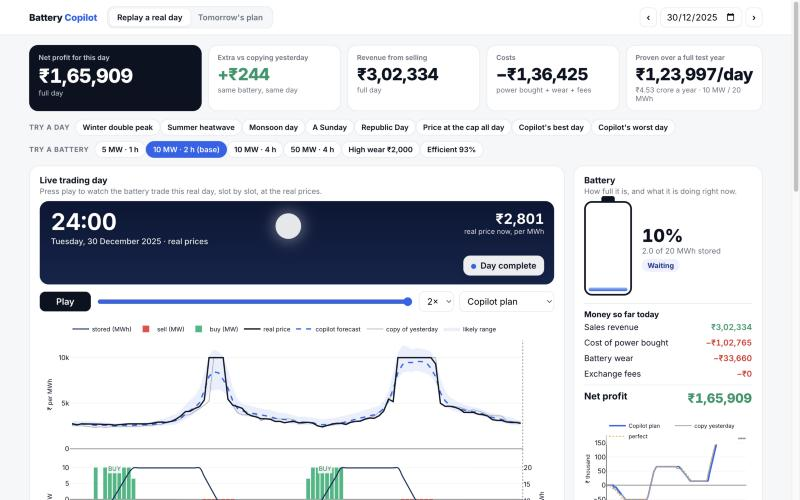
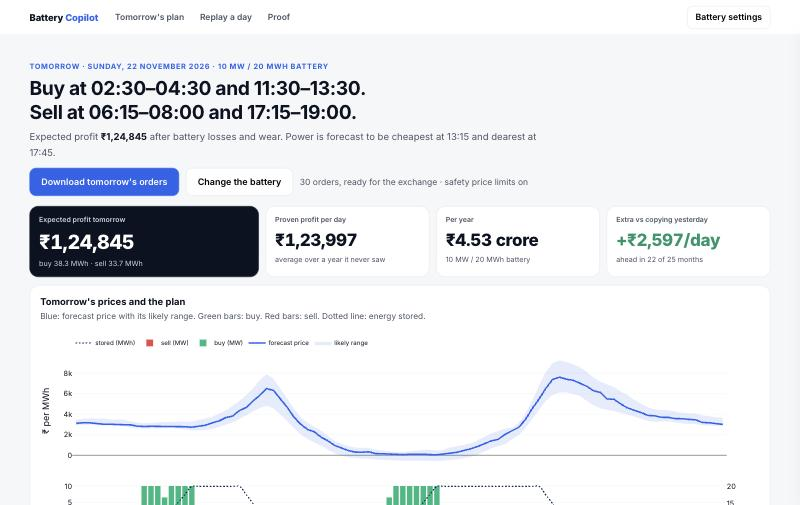
M4 PDF: Figure 1 shows the tomorrow-first website layout

diff --git a/docs/m4_build/build_m4.py b/docs/m4_build/build_m4.py
@@ -100,12 +100,12 @@ s.append(Paragraph(
 
 s.append(Paragraph("2. The working solution", H))
 s.append(KeepTogether([fig("m4_app.jpg", 168), Paragraph(
-    "Figure 1. The working solution: a live trading-desk simulator (web/index.html; run <i>python3 -m http.server 8600 --directory web</i>). "
-    "Money comes first: net profit for the day, the extra over copying yesterday, revenue, costs and the proven test-year figure. One-click test cases "
-    "load typical and extreme days (winter double peak, summer heatwave, monsoon, Sunday, holiday, price at the cap all day, best and worst day) and "
-    "battery designs (5 MW / 1 h to 50 MW / 4 h, high wear, high efficiency). Press play to watch the day trade slot by slot, with a day-night clock, "
-    "live price, battery gauge, running money ledger and live KPIs; every chart states its outcome in one line. Tomorrow's mode writes exchange orders "
-    "with safety price limits. A Streamlit version (app/app.py) adds an AI assistant on a local model (Qwen3 on Ollama).", CAP)]))
+    "Figure 1. The working solution (web/index.html; run <i>python3 -m http.server 8600 --directory web</i>). It opens on the trader's decision: "
+    "tomorrow's plan in one sentence (when to buy, when to sell), the expected profit, a one-click download of the exchange orders with safety price "
+    "limits, and the proof (₹/day and ₹ crore/year on an unseen year, extra over copying yesterday). Below it, a live simulator replays any of 730 real "
+    "days slot by slot, with a day-night clock, battery gauge, running money ledger, live KPIs and a strategy switch, and eight one-click test days "
+    "(winter, heatwave, monsoon, Sunday, holiday, price at the cap, best and worst day). Battery settings and presets sit in a drawer and re-plan "
+    "everything instantly. A Streamlit version (app/app.py) adds an AI assistant on a local model (Qwen3 on Ollama).", CAP)]))
 
 s.append(Paragraph("3. Performance", H))
 rows = [["Plan (10 MW / 20 MWh, ₹1,000 wear)", "Validation year, ₹/day", "Test year, ₹/day", "Share of best (test)", "Per year (test)"]]
